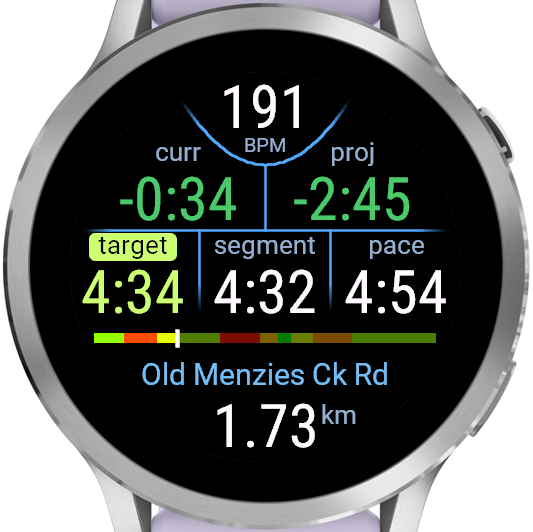
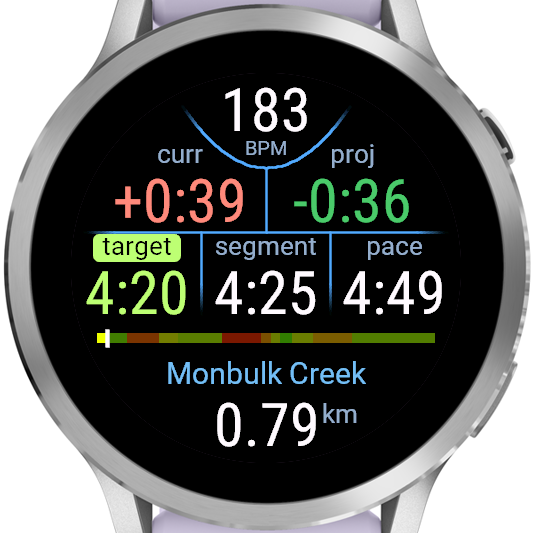
Add extra segment at start and in Menzies Ck
The start is only 400 m but it's flat compared to the subsequent
downhill - better to run it as if it's flat instead of targeting the
downhill pace right away.

A transitional segment in Menzies Ck makes the change in pace less
dramatic at the end of the big climb - the previous segment was not
very close to a constant grade anyway. This makes target paces follow
more closely what elites seem to do based on their Strava data.

Rename some segments and tweak their positions

Use cubic splines to interpolate elevation data

diff --git a/plot_segments.py b/plot_segments.py
@@ -5,9 +5,9 @@ Reads the course track from the .gpx file and the waypoints from segments.json
 endpoints given there.
 
 The map is plotted in km east/north of the start line. The elevation profile is plotted
-against distance along the course, with the elevation as recorded in the .gpx file
-alongside the straight line between each pair of waypoints, whose slope is the average
-grade of that segment - so the two can be compared by eye.
+against distance along the course, with a cubic spline through the elevations recorded
+in the .gpx file alongside the straight line between each pair of waypoints, the slope
+of which is the average grade of that segment - so the two can be compared by eye.
 """
 
 import json
@@ -23,6 +23,7 @@ from make_segments import (
     km,
     percent,
     cumulative_distances,
+    elevation_spline,
     offset,
     read_track,
 )
@@ -34,9 +35,10 @@ FIGSIZE = (11, 4.75)
 
 # Labels are drawn on one of these, so that they can be read where they overlap
 # the course or the elevation trace:
-LABEL_BBOX = {"facecolor": "white", "edgecolor": "none", "alpha": 0.9, "pad": 1}
+LABEL_BBOX = {"facecolor": "white", "edgecolor": "none", "alpha": 0.8, "pad": 1}
 
 LABEL_FONTSIZE = 9
+GRADE_FONTSIZE = 8
 
 # Gap between a waypoint marker and the start of its name, in metres of elevation:
 NAME_CLEARANCE = 10.0
@@ -87,7 +89,7 @@ def plot_course():
             f"{name}\n{waypoint['distance'] / km} km",
             (east, north),
             textcoords="offset points",
-            xytext=(0, 30 if above else -50),
+            xytext=(0, 35 if above else -55),
             ha="center",
             fontsize=LABEL_FONTSIZE,
             color="black",
@@ -98,7 +100,7 @@ def plot_course():
     ax.plot([], [], color="crimson", linewidth=2, label=f"{GATE_LENGTH:.0f} m gates")
 
     ax.set_aspect("equal")
-    ax.margins(0.06)
+    ax.margins(0.10)
     ax.set_xlabel("East of start (km)")
     ax.set_ylabel("North of start (km)")
     ax.grid(True, color="k", linestyle=":", alpha=0.5)
@@ -115,8 +117,12 @@ def plot_elevation():
     points = read_track(GPX_FILE)
     segments = json.loads(SEGMENTS_FILE.read_text('utf8'))
 
-    distance = np.array(cumulative_distances(points))
-    elevation = np.array([ele for _, _, ele in points])
+    distances = cumulative_distances(points)
+
+    # The cubic spline through the track point elevations, evaluated every metre:
+    spline = elevation_spline(points, distances)
+    distance = np.linspace(0, distances[-1], round(distances[-1]) + 1)
+    elevation = spline(distance)
 
     # The straight lines run from waypoint to waypoint, starting at the start of
     # the course. Their slope is the average grade of the segment they span:
@@ -216,6 +222,9 @@ def label_grades(ax, segment_distance, segment_ele, segment_grade):
         segment_ele[1:],
         segment_grade,
     ):
+        if round(g / percent) == 0:
+            # Don't label flat segments
+            continue
         ax.text(
             (x0 + x1) / 2 / km,
             (y0 + y1) / 2,
@@ -225,7 +234,7 @@ def label_grades(ax, segment_distance, segment_ele, segment_grade):
             rotation_mode="anchor",
             ha="center",
             va="center",
-            fontsize=LABEL_FONTSIZE,
+            fontsize=GRADE_FONTSIZE,
             color="crimson",
             bbox=LABEL_BBOX,
         )

diff --git a/make_segments.py b/make_segments.py
@@ -31,6 +31,7 @@ import tomllib
 import xml.etree.ElementTree as ET
 
 import numpy as np
+from scipy.interpolate import CubicSpline
 
 
 km = 1000
@@ -204,15 +205,22 @@ def resample(points, distances, spacing=RESAMPLE_SPACING):
     return s, lats, lons
 
 
+def elevation_spline(points, distances):
+    """Cubic spline of elevation as a function of distance along the track."""
+    return CubicSpline(distances, [ele for _, _, ele in points])
+
+
 def position_at(points, distances, target):
     """Lat, lon and elevation the given distance in metres into the course.
 
-    A target beyond the end of the track gives the final track point.
+    Lat and lon are interpolated linearly between track points, and elevation with a
+    cubic spline. A target beyond the end of the track gives the final track point.
     """
-    return tuple(
-        np.interp(target, distances, [point[i] for point in points])
-        for i in range(3)
+    lat, lon = (
+        np.interp(target, distances, [point[i] for point in points]) for i in range(2)
     )
+    ele = elevation_spline(points, distances)(np.clip(target, 0, distances[-1]))
+    return lat, lon, float(ele)
 
 
 def heading_at(s, lats, lons, target):

diff --git a/README.md b/README.md
@@ -83,18 +83,20 @@ Waypoint description
 
 The default waypoints are:
 
-| distance into course   | name    | description                                                                          |
-| :--------- | :------------------ | :----------------------------------------------------------------------------------- |
-|  1.200 km  | Trestle Bridge Bend | Bend after which the Trestle Bridge comes into view                                  |
-|  2.500 km  | Selby               | Selby township                                                                       |
-|  3.260 km  | Aura Rd Crossing    | Where the railway crosses the course on Selby-Aura Rd                                |
-|  5.025 km  | Old Menzies Ck Rd   | Corner at Old Menzies Ck Rd where the course turns to stay on Selby-Aura Rd          |
-|  6.590 km  | Menzies Ck Crossing | Where the railway crosses the course in Menzies Ck township                          |
-|  7.340 km  | Menzies Rd Crest    | Local elevation maximum of the course on Menzies Rd                                  |
-|  7.830 km  | Clematis Crossing   | Where the railway and course both cross Belgrave-Gembrook Rd in parallel in Clematis |
-|  8.700 km  | Clematis Pub        | About 100 metres after the course passes Clematis Pub                                |
-| 10.260 km  | Emerald Crossing    | Where the railway crosses the course after Emerald Railway Station                   |
-| 13.613 km  | Lakeside            | Finish line at Emerald Lake                                                          |
+| distance into course   | name    | description                                                                       |
+| :--------- | :------------------ | :-------------------------------------------------------------------------------- |
+|  0.393 km  | Leaving Belgrave    | End of the flat opening segment of the course                                     |
+|  1.195 km  | Monbulk Creek       | Where the course crosses Monbulk Creek, before the Trestle Bridge comes into view |
+|  2.500 km  | Selby               | Selby township                                                                    |
+|  3.260 km  | Aura Rd Crossing    | Where the railway crosses the course on Selby-Aura Rd                             |
+|  5.025 km  | Old Menzies Ck Rd   | Corner at Old Menzies Ck Rd where the course turns to stay on Selby-Aura Rd       |
+|  6.590 km  | Menzies Crossing    | Where the railway crosses the course in Menzies Creek township                    |
+|  7.000 km  | Menzies Plateau     | End of climb and start of flat segment on Menzies Rd                              |
+|  7.386 km  | Menzies Drop        | End of flat segment and start of steep drop on Menzies Rd                         |
+|  7.837 km  | Clematis Crossing   | Just after the railway and course both cross Belgrave-Gembrook Rd in Clematis     |
+|  8.700 km  | Clematis Pub        | About 100 metres after the course passes Clematis Pub                             |
+| 10.260 km  | Emerald Crossing    | Where the railway crosses the course after Emerald Railway Station                |
+| 13.613 km  | Lakeside            | Finish line at Emerald Lake                                                       |
 
 Configuration
 -------------
